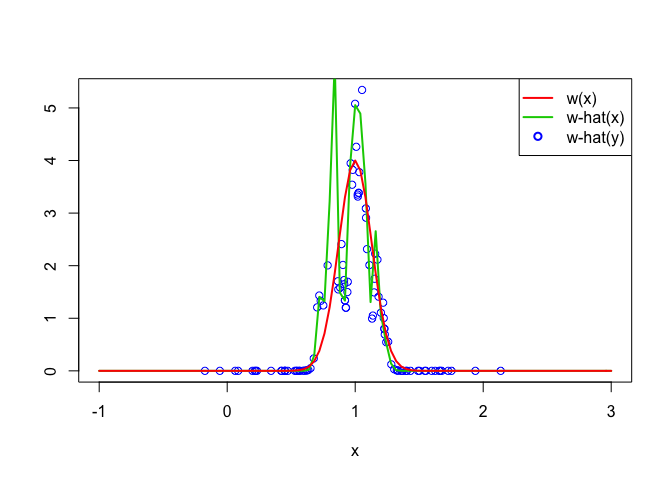
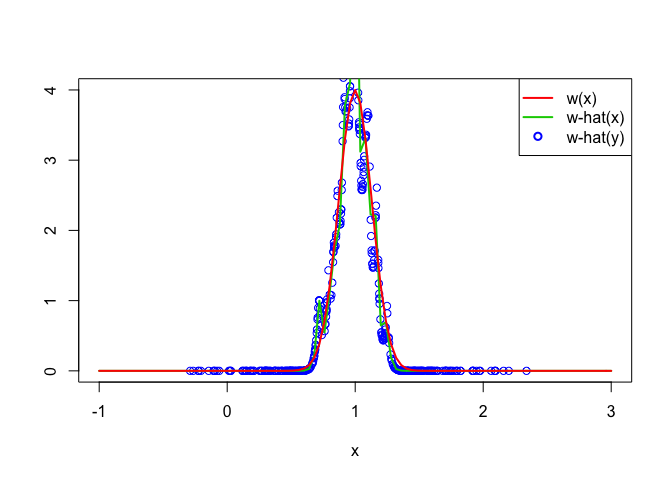
fix readme

diff --git a/README.md b/README.md
@@ -2,13 +2,13 @@
 
 
 
-## KLIEP (Kullback-Leibler Importance Estimation Procedure)
+## 1. KLIEP (Kullback-Leibler Importance Estimation Procedure)
 
 
 ```r
 set.seed(314)
-x <- rnorm(100, 1, 1/8)
-y <- rnorm(100, 1, 1/2)
+x <- rnorm(400, 1, 1/8)
+y <- rnorm(400, 1, 1/2)
 
 plot(function(x) dnorm(x, 1, 1/8), xlim=c(-1, 3), xlab="x", ylab="", lwd=2)
 plot(function(x) dnorm(x, 1, 1/2), xlim=c(-1, 3), lwd=2, col=4, add=TRUE)
@@ -25,7 +25,7 @@ result <- KLIEP(x, y)
 
 
 ```r
-plot(y, result$y_density_ratio, xlim = c(-1, 3), col = 4, xlab = "x", ylab = "")
+plot(y, result$y_density_ratio, xlim = c(-1, 3), ylim=c(0, 4), col = 4, xlab = "x", ylab = "")
 plot(function(x) result$compute_density_ratio(x)[,1], xlim=c(-1, 3), lwd=2, col=3, add=TRUE)
 plot(function(x) dnorm(x, 1, 1/8) / dnorm(x, 1, 1/2), xlim=c(-1, 3), lwd=2, col=2, add=TRUE)
 legend("topright", legend=c("w(x)","w-hat(x)","w-hat(y)"), col=2:4, lty=c(1,1,NA), lwd=2, pch=c(NA,NA,1))
